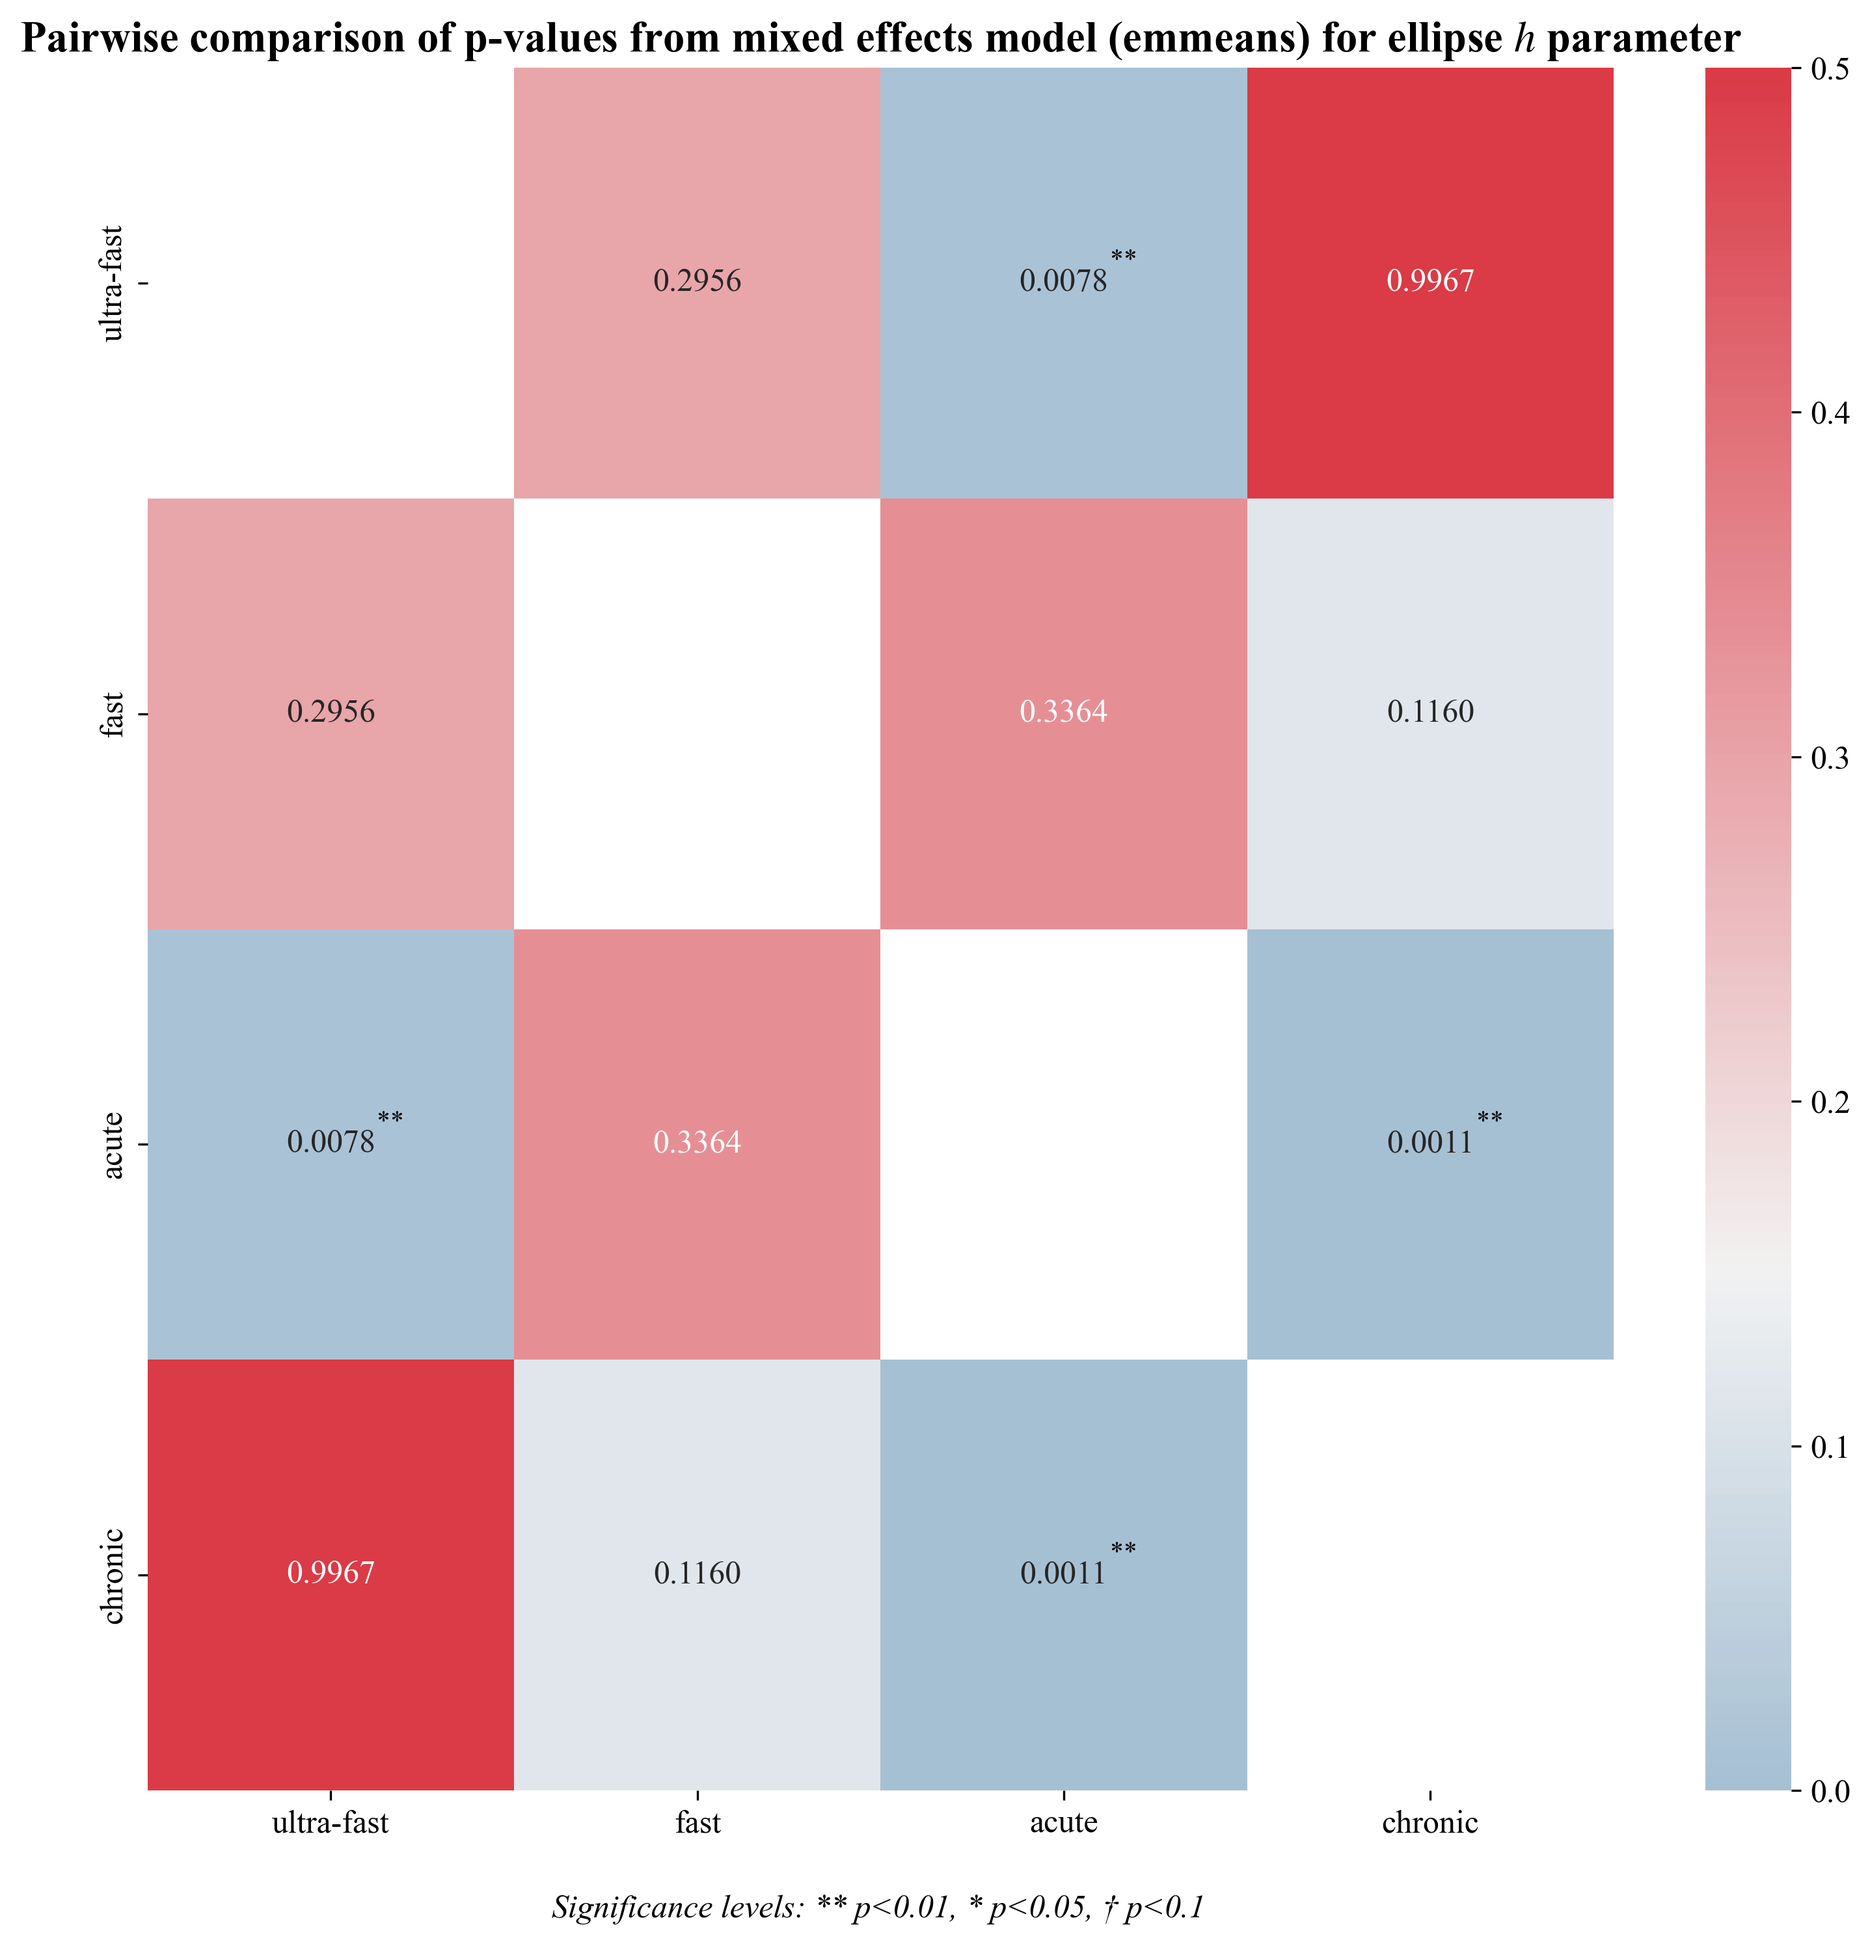
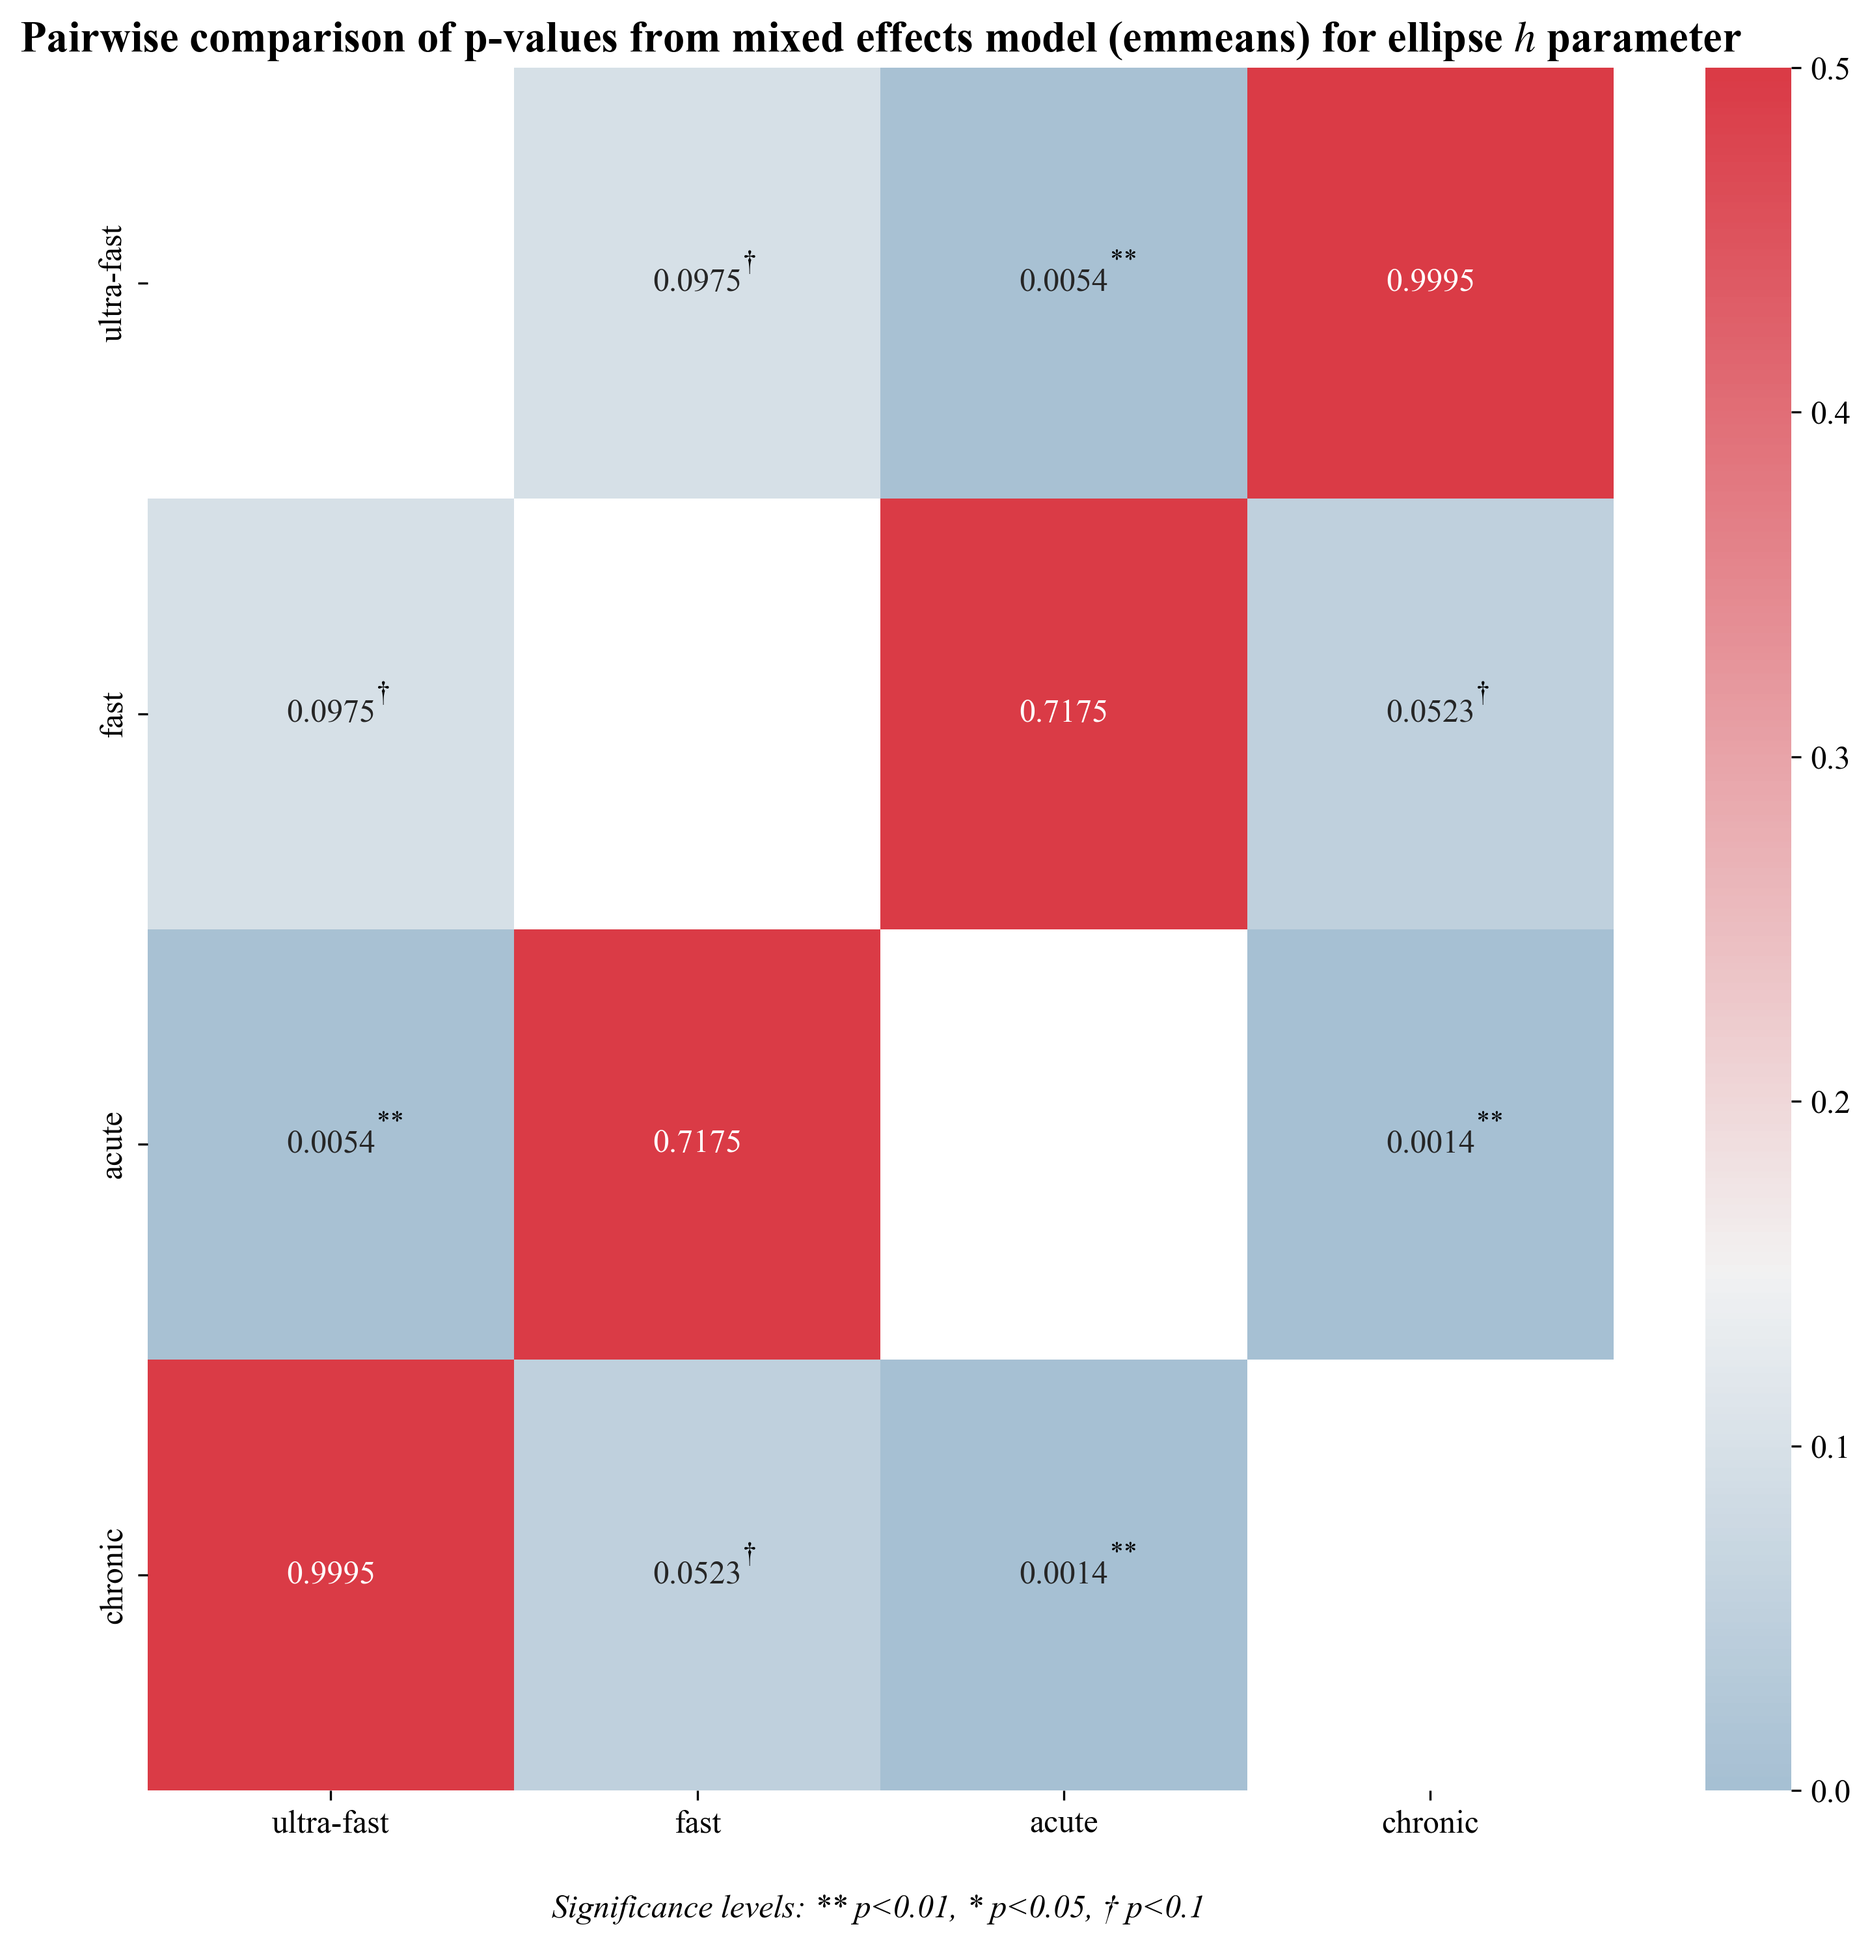
remake significance matrix

Changed region(s): [[0.0619, 0.0311, 0.8671, 0.934]]

diff --git a/Image_Processing_Scripts/stats_main_h.py b/Image_Processing_Scripts/stats_main_h.py
@@ -1068,6 +1068,74 @@ if __name__ == '__main__':
     print('ensuring categorical values are categorical')
     new_df['timepoint']=pd.Categorical(new_df['timepoint'], categories=['ultra-fast', 'fast', 'acute', '3mo', '6mo', '12mo', '24mo'])
     
+    # Now get new ranges for categories based on date since injury
+    sep_df =new_df.copy()
+    print(sep_df.head(100))
+    
+    days_data=pd.read_csv('DTI_Processing_Scripts/patient_scanner_data_with_timepoints.csv')
+    days_data=days_data.drop(columns=['Cohort','Site','Model','Scan_date'], axis=1)
+    pd.set_option('display.max_rows', None)  # Show all rows
+    #print(days_data.head(100))
+
+    
+    # remove rows that have no value in timepoint
+    days_data=days_data.dropna(subset=['timepoint'])
+    #print(days_data.head(100))
+    
+    # sort values by patient ID and timepoint in order ultra-fast, fast, acute, 3mo, 6mo, 12mo, 24mo
+    timepoint_order=['ultra-fast', 'fast', 'acute', '3mo', '6mo', '12mo', '24mo']
+    days_data['timepoint']=pd.Categorical(days_data['timepoint'], categories=timepoint_order)
+    days_data=days_data.sort_values(by=['patient_id', 'timepoint']).reset_index(drop=True)
+    print(days_data.head(100))
+    #if patient_id and timepoint combination not in sep_df, pop days_data row
+    # remove duplicates
+    days_data=days_data.drop_duplicates(subset=['patient_id', 'timepoint']).reset_index(drop=True)
+    print(days_data.head(100))
+
+    # remove duplicates from days_data
+    #days_data=days_data.drop_duplicates(subset=['patient_id', 'timepoint'], keep='first')
+    #print(days_data.head(100))
+    # Create a set of patient_id and timepoint combinations from sep_df
+    # Fix data types to ensure consistent comparison
+    sep_df['patient_id'] = sep_df['patient_id'].astype(str)
+    days_data['patient_id'] = days_data['patient_id'].astype(str)
+
+    # Normalize timepoint strings
+    sep_df['timepoint'] = sep_df['timepoint'].str.strip()
+    days_data['timepoint'] = days_data['timepoint'].str.strip()
+
+    # Filter days_data to keep only rows with matching combinations in sep_df
+    valid_pairs = set(zip(sep_df['patient_id'], sep_df['timepoint']))
+    filtered_days_data = days_data[
+        days_data.apply(lambda row: (str(row['patient_id']), row['timepoint']) in valid_pairs, axis=1)
+    ]
+
+    # Merge with the filtered dataframe
+    sep_df = sep_df.merge(
+        filtered_days_data[['patient_id', 'timepoint', 'Days_since_injury']],
+        on=['patient_id', 'timepoint'],
+        how='left'
+    )
+    print(sep_df)
+
+    # Redo ranges
+
+    recategorised_df = sep_df.copy()
+    ranges = [(0,2), (2,8), (8, 42), (42, 179), (179, 278), (278, 540), (540, 500000)]
+    labels = ['ultra-fast', 'fast', 'acute', '3mo', '6mo', '12mo', '24mo']
+    recategorised_df['timepoint'] = pd.cut(recategorised_df['Days_since_injury'], bins=[0, 2, 8, 42, 179, 278, 540, 500000], labels=labels)
+    
+    #print rows where recategorised_df is different from sep_df
+    print(recategorised_df[recategorised_df['timepoint'] != sep_df['timepoint']])
+    # drop duplicate patient_id timepoint combinations
+    recategorised_df=recategorised_df.drop_duplicates(subset=['patient_id', 'timepoint'])
+
+    #create_timepoint_boxplot_recategorised(recategorised_df)
+    
+
+    new_df=recategorised_df.drop(columns='Days_since_injury', axis=1)
+
+
 
 
     # Check for duplicates
